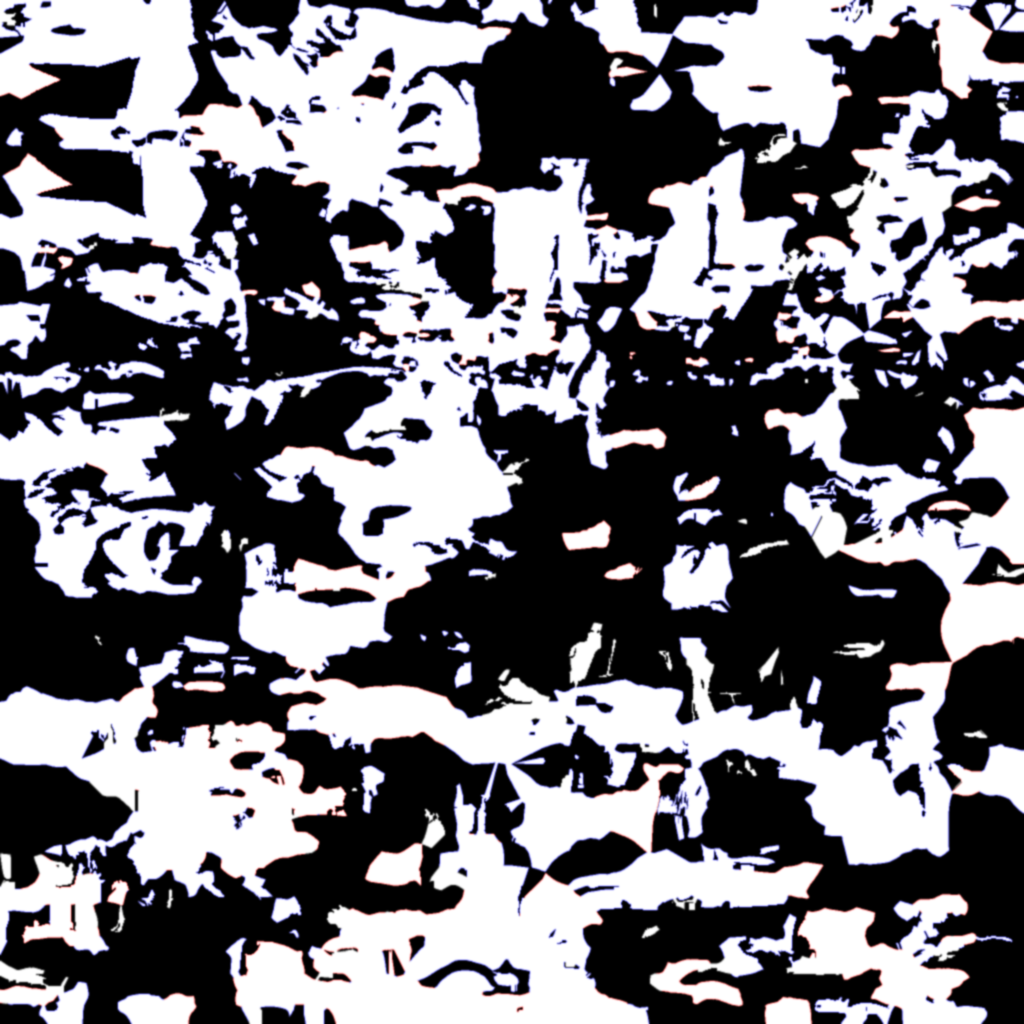
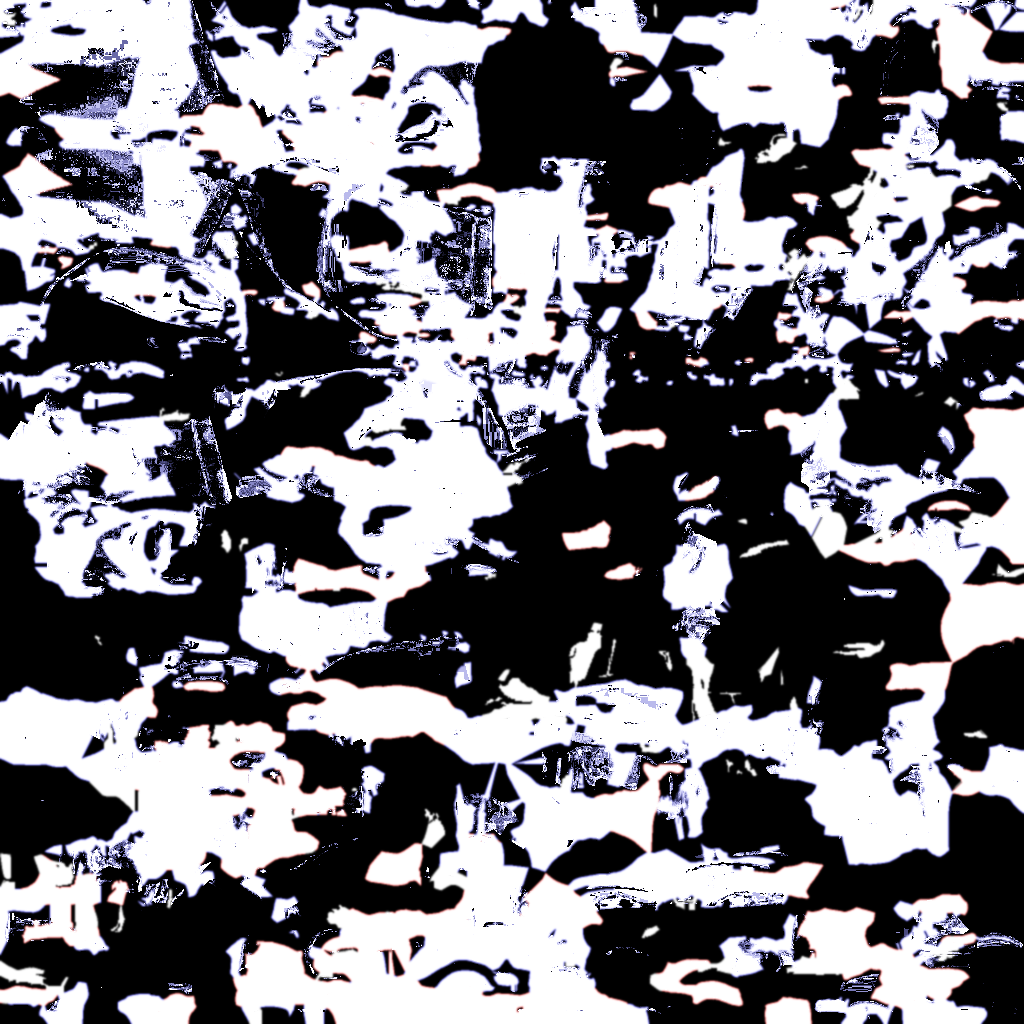
fid29 charshade: garment-consistent masks, live cornea catchlight, cheaper sheen and hair lobes, measure tool, licences

diff --git a/app/game3d/tools/char/measure.py b/app/game3d/tools/char/measure.py
@@ -1,0 +1,123 @@
+#!/usr/bin/env python3
+"""fid29 charshade: the lane's numbers from matched b28 / new frames (tools/fid29/shots.sh output folders).
+
+  measure.py B28_DIR NEW_DIR [--orbit TAG ...]
+Per shot present in both folders (<tag>_B_intro, <tag>_B_win, <tag>_A_mid; the hero's crops from the shot's json):
+  skin   median CIELAB of the skin-coloured pixels in the hero's face crop, b28 against new: Delta E 76. The lane only
+         touches skin through the cavity term and the eyes, so this bounds how far it moved the tone skinlook-28 set.
+  hair   stair-steps on the hair: in the hero's hair crop, the share of strong luminance edges (Sobel above the 95th
+         percentile of the b28 crop) that are single-pixel steps (|Laplacian| > 0.5 x the edge strength). new / b28.
+  budget the CQLOOK perf line of each run (texture and video memory, draws, primitives).
+--orbit TAG: the 30-frame slow orbit of the intro beat (<TAG>_B_intro_orbit_00..29): specular flicker = mean absolute
+  frame-to-frame change of the high-passed luminance (L minus its 2 px blur) over the hero's torso and face boxes.
+Prints one JSON line per measure.
+"""
+import json, re, sys
+from pathlib import Path
+import numpy as np
+from PIL import Image
+from scipy import ndimage
+
+
+def lab(rgb):
+    c = np.where(rgb <= 0.04045, rgb / 12.92, ((rgb + 0.055) / 1.055) ** 2.4)
+    M = np.array([[0.4124, 0.3576, 0.1805], [0.2126, 0.7152, 0.0722], [0.0193, 0.1192, 0.9505]])
+    xyz = c @ M.T / np.array([0.95047, 1.0, 1.08883])
+    f = np.where(xyz > 0.008856, np.cbrt(xyz), 7.787 * xyz + 16 / 116)
+    return np.stack([116 * f[..., 1] - 16, 500 * (f[..., 0] - f[..., 1]), 200 * (f[..., 1] - f[..., 2])], -1)
+
+
+def img(p):
+    return np.asarray(Image.open(p).convert("RGB"), np.float32) / 255
+
+
+def crop(a, box):
+    x0, y0, x1, y1 = [int(round(v)) for v in box]
+    return a[max(y0, 0):max(y1, 0), max(x0, 0):max(x1, 0)]
+
+
+def boxes(js, who="hero"):
+    try:
+        return json.loads(Path(js).read_text())["crops"]["game"][who]
+    except Exception:
+        return {}
+
+
+def skin_lab(a):
+    L = lab(a); h = np.degrees(np.arctan2(L[..., 2], L[..., 1])); ch = np.hypot(L[..., 1], L[..., 2])
+    m = (h > 20) & (h < 80) & (ch > 8) & (ch < 50) & (L[..., 0] > 12) & (L[..., 0] < 88)
+    return np.median(L[m], 0) if m.sum() > 50 else None
+
+
+def lum(a):
+    return a @ np.array([0.2126, 0.7152, 0.0722])
+
+
+def stairs(a, thr):
+    y = lum(a); gx = ndimage.sobel(y, 1); gy = ndimage.sobel(y, 0); g = np.hypot(gx, gy)
+    lap = np.abs(ndimage.laplace(y))
+    e = g > thr
+    return float((e & (lap > 0.5 * g / 4.0)).sum() / max(e.sum(), 1)), int(e.sum())
+
+
+def main():
+    b28, new = Path(sys.argv[1]), Path(sys.argv[2])
+    orbits = sys.argv[sys.argv.index("--orbit") + 1:] if "--orbit" in sys.argv else []
+    for jb in sorted(b28.glob("*_B_intro.json")) + sorted(b28.glob("*_B_win.json")) + sorted(b28.glob("*_A_mid.json")):
+        name = jb.stem
+        if "_orb_" in name or not (new / jb.name).exists():
+            continue
+        pb, pn = b28 / f"{name}_game.png", new / f"{name}_game.png"
+        if not (pb.exists() and pn.exists()):
+            continue
+        A, B = img(pb), img(pn); bx = boxes(jb)
+        out = {"shot": name}
+        if "face" in bx:
+            sa, sb = skin_lab(crop(A, bx["face"])), skin_lab(crop(B, bx["face"]))
+            if sa is not None and sb is not None:
+                out["skin_dE76"] = round(float(np.linalg.norm(sa - sb)), 2)
+                out["skin_lab_b28"] = [round(float(v), 1) for v in sa]; out["skin_lab_new"] = [round(float(v), 1) for v in sb]
+        if "hair" in bx:
+            ca, cb = crop(A, bx["hair"]), crop(B, bx["hair"])
+            if ca.size > 300:
+                y = lum(ca); thr = float(np.percentile(np.hypot(ndimage.sobel(y, 1), ndimage.sobel(y, 0)), 95))
+                sa, na = stairs(ca, thr); sb, nb = stairs(cb, thr)
+                out["hair_steps_b28"] = round(sa, 4); out["hair_steps_new"] = round(sb, 4)
+                out["hair_steps_ratio"] = round(sb / max(sa, 1e-6), 3)
+        print(json.dumps(out))
+    for t in orbits:
+        res = {"orbit": t}
+        for nm, d in (("b28", b28), ("new", new)):
+            fr = sorted(d.glob(f"{t}_B_intro_orbit_*_game.png")) or sorted(d.glob(f"{t}*orbit_*.png"))
+            fr = [f for f in fr if "hud" not in f.name]
+            jb = d / f"{t}_B_intro.json"; bx = boxes(jb)
+            if len(fr) < 3:
+                res[nm] = None; continue
+            ys = []
+            for f in fr:
+                y = lum(img(f)); ys.append(y - ndimage.gaussian_filter(y, 2.0))
+            ys = np.stack(ys)
+            m = np.zeros(ys.shape[1:], bool)
+            for k in ("torso", "face"):
+                if k in bx:
+                    x0, y0, x1, y1 = [int(round(v)) for v in bx[k]]
+                    m[max(y0, 0):y1, max(x0, 0):x1] = True
+            if not m.any():
+                m[:] = True
+            res[nm] = round(float(np.abs(np.diff(ys, axis=0))[:, m].mean()), 5)
+            res[nm + "_frames"] = len(fr)
+        if res.get("b28") and res.get("new"):
+            res["flicker_ratio"] = round(res["new"] / res["b28"], 3)
+        print(json.dumps(res))
+    for nm, d in (("b28", b28), ("new", new)):
+        for lg in sorted((d / "logs").glob("*.log")):
+            for line in lg.read_text(errors="ignore").splitlines():
+                if line.startswith("CQLOOK perf"):
+                    m = dict(re.findall(r"(\w+)=([\d.]+)", line))
+                    print(json.dumps({"budget": nm, "shot": line.split()[2], "tex_mb": float(m.get("tex_mb", 0)),
+                                      "vmem_mb": float(m.get("vmem_mb", 0)), "draws": int(float(m.get("draws", 0))),
+                                      "prims": int(float(m.get("prims", 0))), "objects": int(float(m.get("objects", 0)))}))
+
+
+if __name__ == "__main__":
+    main()

diff --git a/app/game3d/tools/char/matid.py b/app/game3d/tools/char/matid.py
@@ -16,6 +16,9 @@ texels), on the exact build-28 lod0 file. On top of them this tool's own gates:
     cape and suit as metal: the "smeared bronze");
   - leather and cloth straight from the classes.
 
+Then a garment pass (garment_pass): leather against cloth is settled by colour family (a garment is one colour), so a
+jacket's sleeves, back and painted highlights stop reading as cloth patches.
+
 Usage (any python with numpy, scipy and Pillow):
   matid.py build KEY --glb LOD0.glb --classes maps_lod0.npz --out-dir art/char/masks [--size 1024]
       -> KEY_lod0.png, KEY.json (hair colour, iris colour, body UV density), KEY_lod0_debug.jpg (the mask over the map)
@@ -178,6 +181,36 @@ def weights_from_classes(cls, albedo_rgb, size):
     return np.clip(w, 0, 1), cov
 
 
+def garment_pass(w, cov, alb, k=150, sub=3, seed=7):
+    """Leather against cloth, garment by garment. The classes come from the concept's colour groups laid over the model's
+    front (the back and sides by nearest labelled texel), so a jacket came out with patches of cloth (its sleeves, its
+    painted highlights, a wedge of its back) that drew as satin streaks. A garment is one colour family: every leather-or-
+    cloth texel takes the leather share of the texels nearest it in colour (CIELAB, lightness at half weight, the k
+    nearest of a 1-in-`sub` sample of the hero's leather and cloth), so the jacket's brown is leather wherever it is and
+    the shirt's cream and the trousers' olive stay cloth. Skin and metal are left as they are; the texel's leather +
+    cloth total is kept."""
+    lab = srgb_to_lab(np.clip(alb, 0, 1))[cov] * np.array([0.5, 1.0, 1.0])
+    lc = w[..., 2][cov] + w[..., 3][cov]
+    fr = np.where(lc > 1e-3, w[..., 2][cov] / np.maximum(lc, 1e-3), 0.5)
+    rng = np.random.default_rng(seed)
+    src = np.where(lc > 0.5)[0]
+    src = src[rng.random(len(src)) < 1.0 / sub]
+    if len(src) < k or not (0.25 <= float((fr[src] > 0.5).mean()) <= 0.75):
+        # only where leather is a garment (a jacket: a quarter or more of the leather-and-cloth surface). Small leather
+        # parts (belts, straps, holsters) share colours with the cloth round them and a vote would wash them out
+        return w
+    _, nn = cKDTree(lab[src]).query(lab, k=k)
+    v = fr[src][nn].mean(1)
+    # a clear colour vote decides; a split one (a colour both garments share) keeps the texel's own class
+    t = np.clip((np.abs(v - 0.5) - 0.1) / 0.2, 0, 1)
+    fr = t * (v > 0.5) + (1 - t) * fr
+    out = w.copy()
+    L = out[..., 2].copy(); C = out[..., 3].copy()
+    L[cov] = lc * fr; C[cov] = lc * (1 - fr)
+    out[..., 2] = L; out[..., 3] = C
+    return out
+
+
 def hair_colour(j, b):
     for m in j["materials"]:
         if str((m.get("extras") or {}).get("cq_surface", "")) == "hair":
@@ -264,9 +297,11 @@ def cmd_build(a):
         np.concatenate([p["V"] for p in UVp]), cls.shape[0])
     cls = np.where(cov, cls, -1)
     w, cov_s = weights_from_classes(cls, alb, a.size)
+    small_alb = np.asarray(Image.fromarray((alb * 255).astype(np.uint8)).resize((a.size, a.size), Image.BILINEAR), np.float32) / 255
+    if not getattr(a, "no_garment", False):
+        w = garment_pass(w, cov_s, small_alb)
     out = Path(a.out_dir); out.mkdir(parents=True, exist_ok=True)
     save_mask(w, out / f"{a.key}_lod0.png")
-    small_alb = np.asarray(Image.fromarray((alb * 255).astype(np.uint8)).resize((a.size, a.size), Image.BILINEAR), np.float32) / 255
     debug_sheet(w, small_alb, Path(a.debug_dir or out) / f"{a.key}_lod0_debug.jpg")
     # the painted light on leather and cloth: the lift baked the concept's highlights into the base colour, and on
     # leather those streaks read as lacquer. char_real soft-clips each class's linear luminance above a knee: the

diff --git a/docs/game3d/fid29/ASSETS-LICENCES-charshade.md b/docs/game3d/fid29/ASSETS-LICENCES-charshade.md
@@ -1,0 +1,33 @@
+# fid29 charshade: assets and licences
+
+Every third-party file this lane uses, and what was made from it. Nothing else was downloaded. Total download 45 MB
+(six 1K JPG packs), well under the 1 GB cap; nothing was paid for.
+
+## ambientCG (CC0 1.0)
+
+Licence line, as ambientCG states it on every asset page and at https://docs.ambientcg.com/license/ :
+"All assets on ambientCG are provided under the Creative Commons CC0 1.0 Universal License." No attribution is
+required; it is recorded here anyway.
+
+Downloaded 14 Nov 2026 (about 15:09 UTC) onto mm1 (`~/cq-overflow/b29/charshade/dl/`), the 1K-JPG pack of each.
+
+| Asset | Page | Download | sha256 of the zip | Used for |
+|---|---|---|---|---|
[6 lines of base64/hex data omitted]
+
+Only the NormalGL maps (cloth, leather) and the single-channel masks (scratches, imperfections) were used, resampled
+and repacked by `tools/char/detail_sheet.py`. The zips stay on mm1 and are not in the repository.
+
+## Ours (made by this lane, no third-party content)
+
+| File | Made by | From |
+|---|---|---|
+| `art/char/masks/<hero>_lod0.png`, `_lod1r.png`, `<hero>.json` | `tools/char/matid.py` | the build 28 hero files and the handsmetal lane's texel classes (our renderer code, `metal_mat.py apply --maps`) |
+| `art/char/hair/<hero>_hi.png`, `_mid.png`, `<hero>_hair.json` | `tools/char/hair_atlas.py` | each hero's own procedural hair-card atlas (the hybrid stage's `hair_cards.py` / `hair_styles.py`, ours) |
+
+No game's asset, character, map or UI was copied, traced or recreated. No Mixamo, MetaHuman, Fab or Megascans content.
